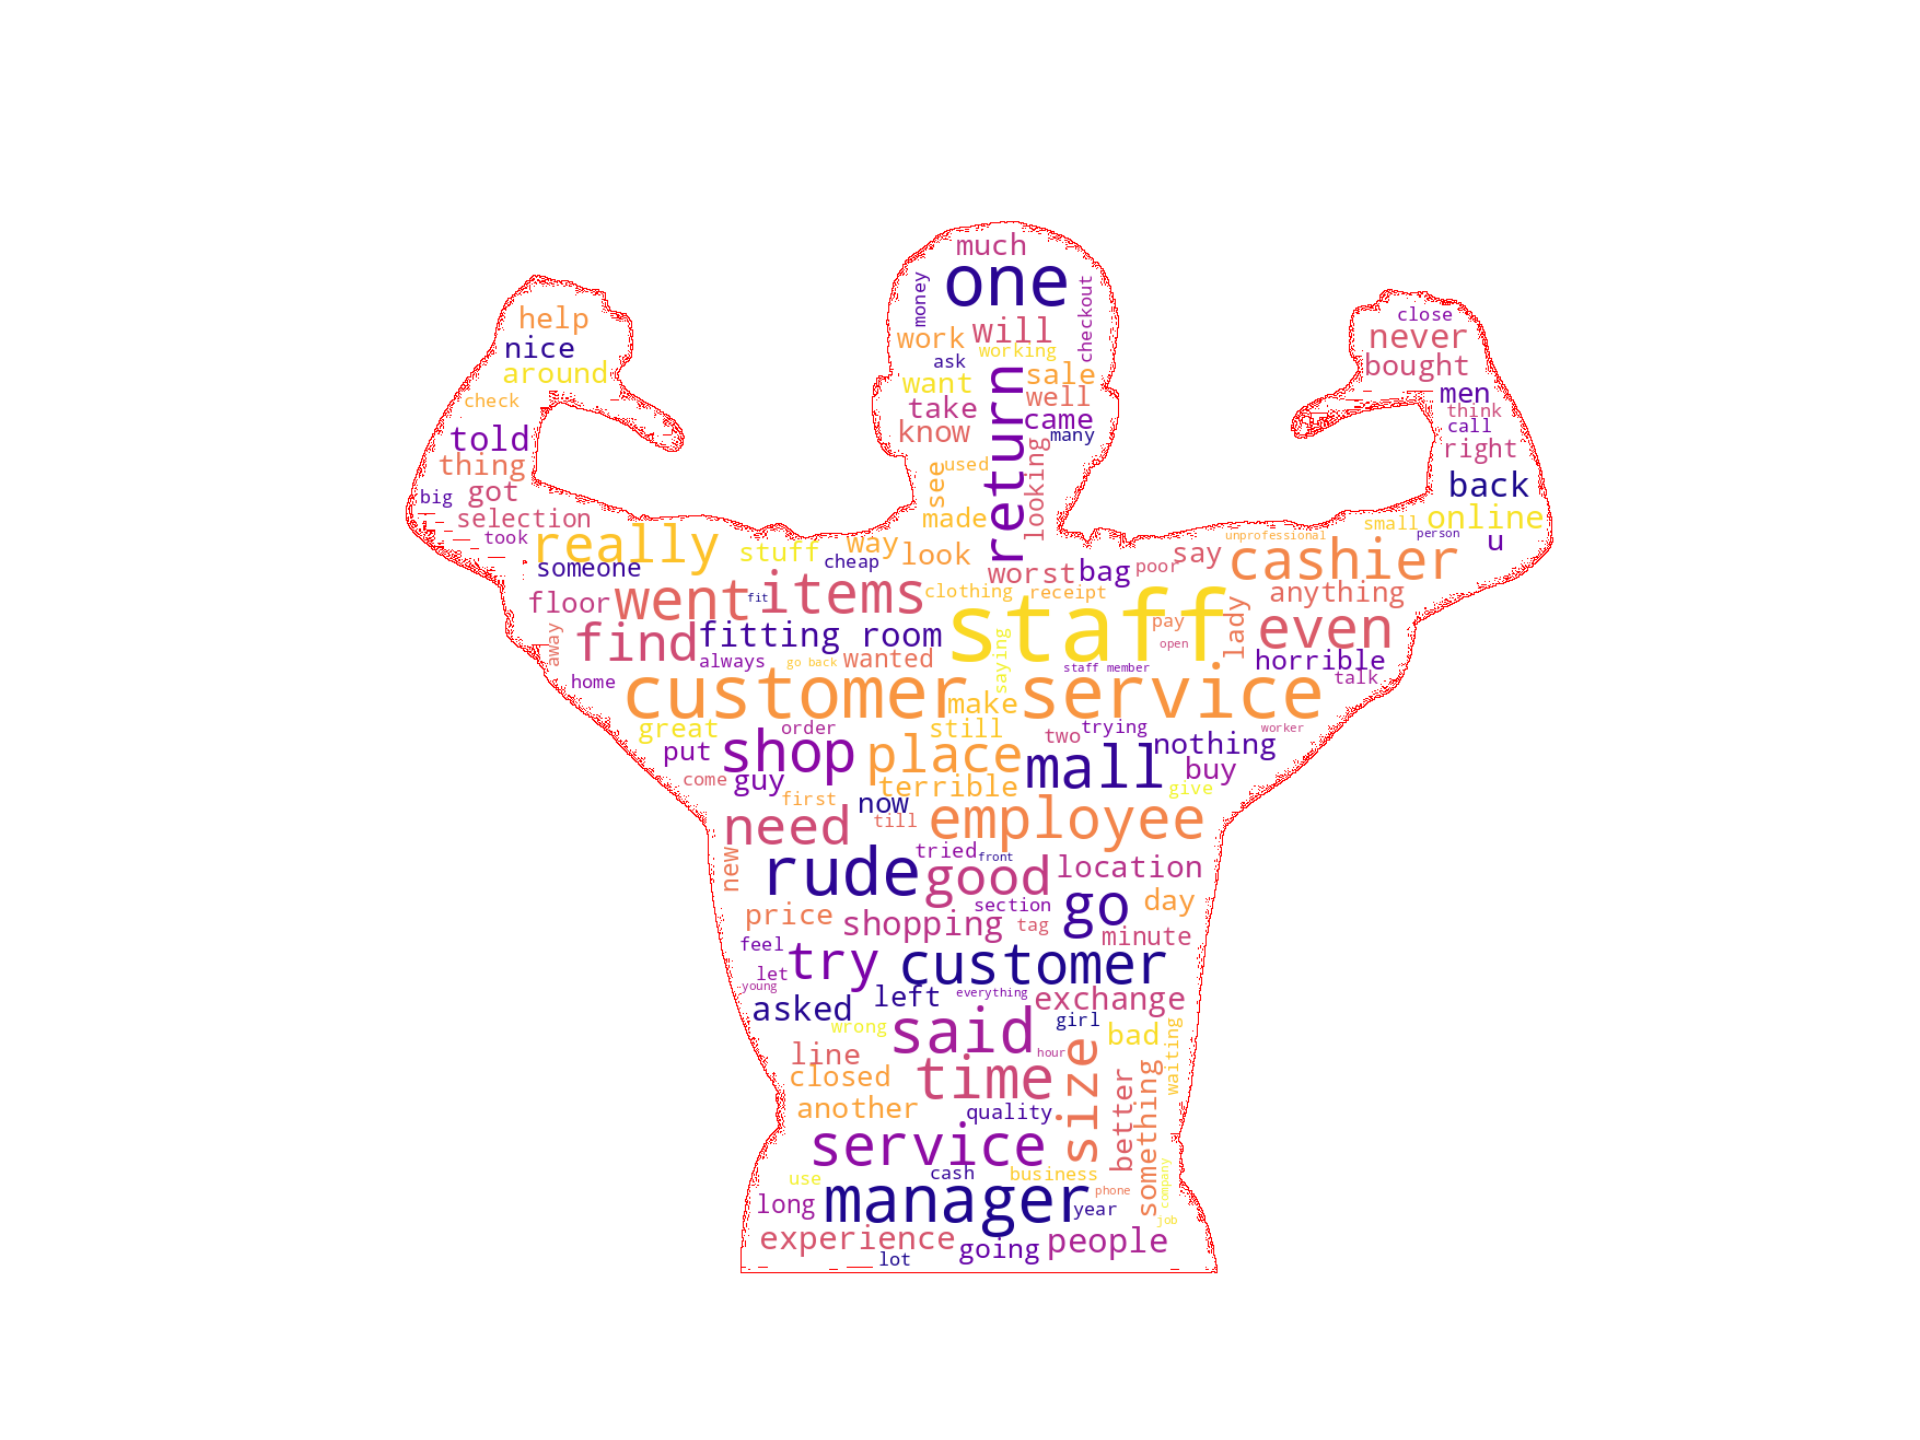
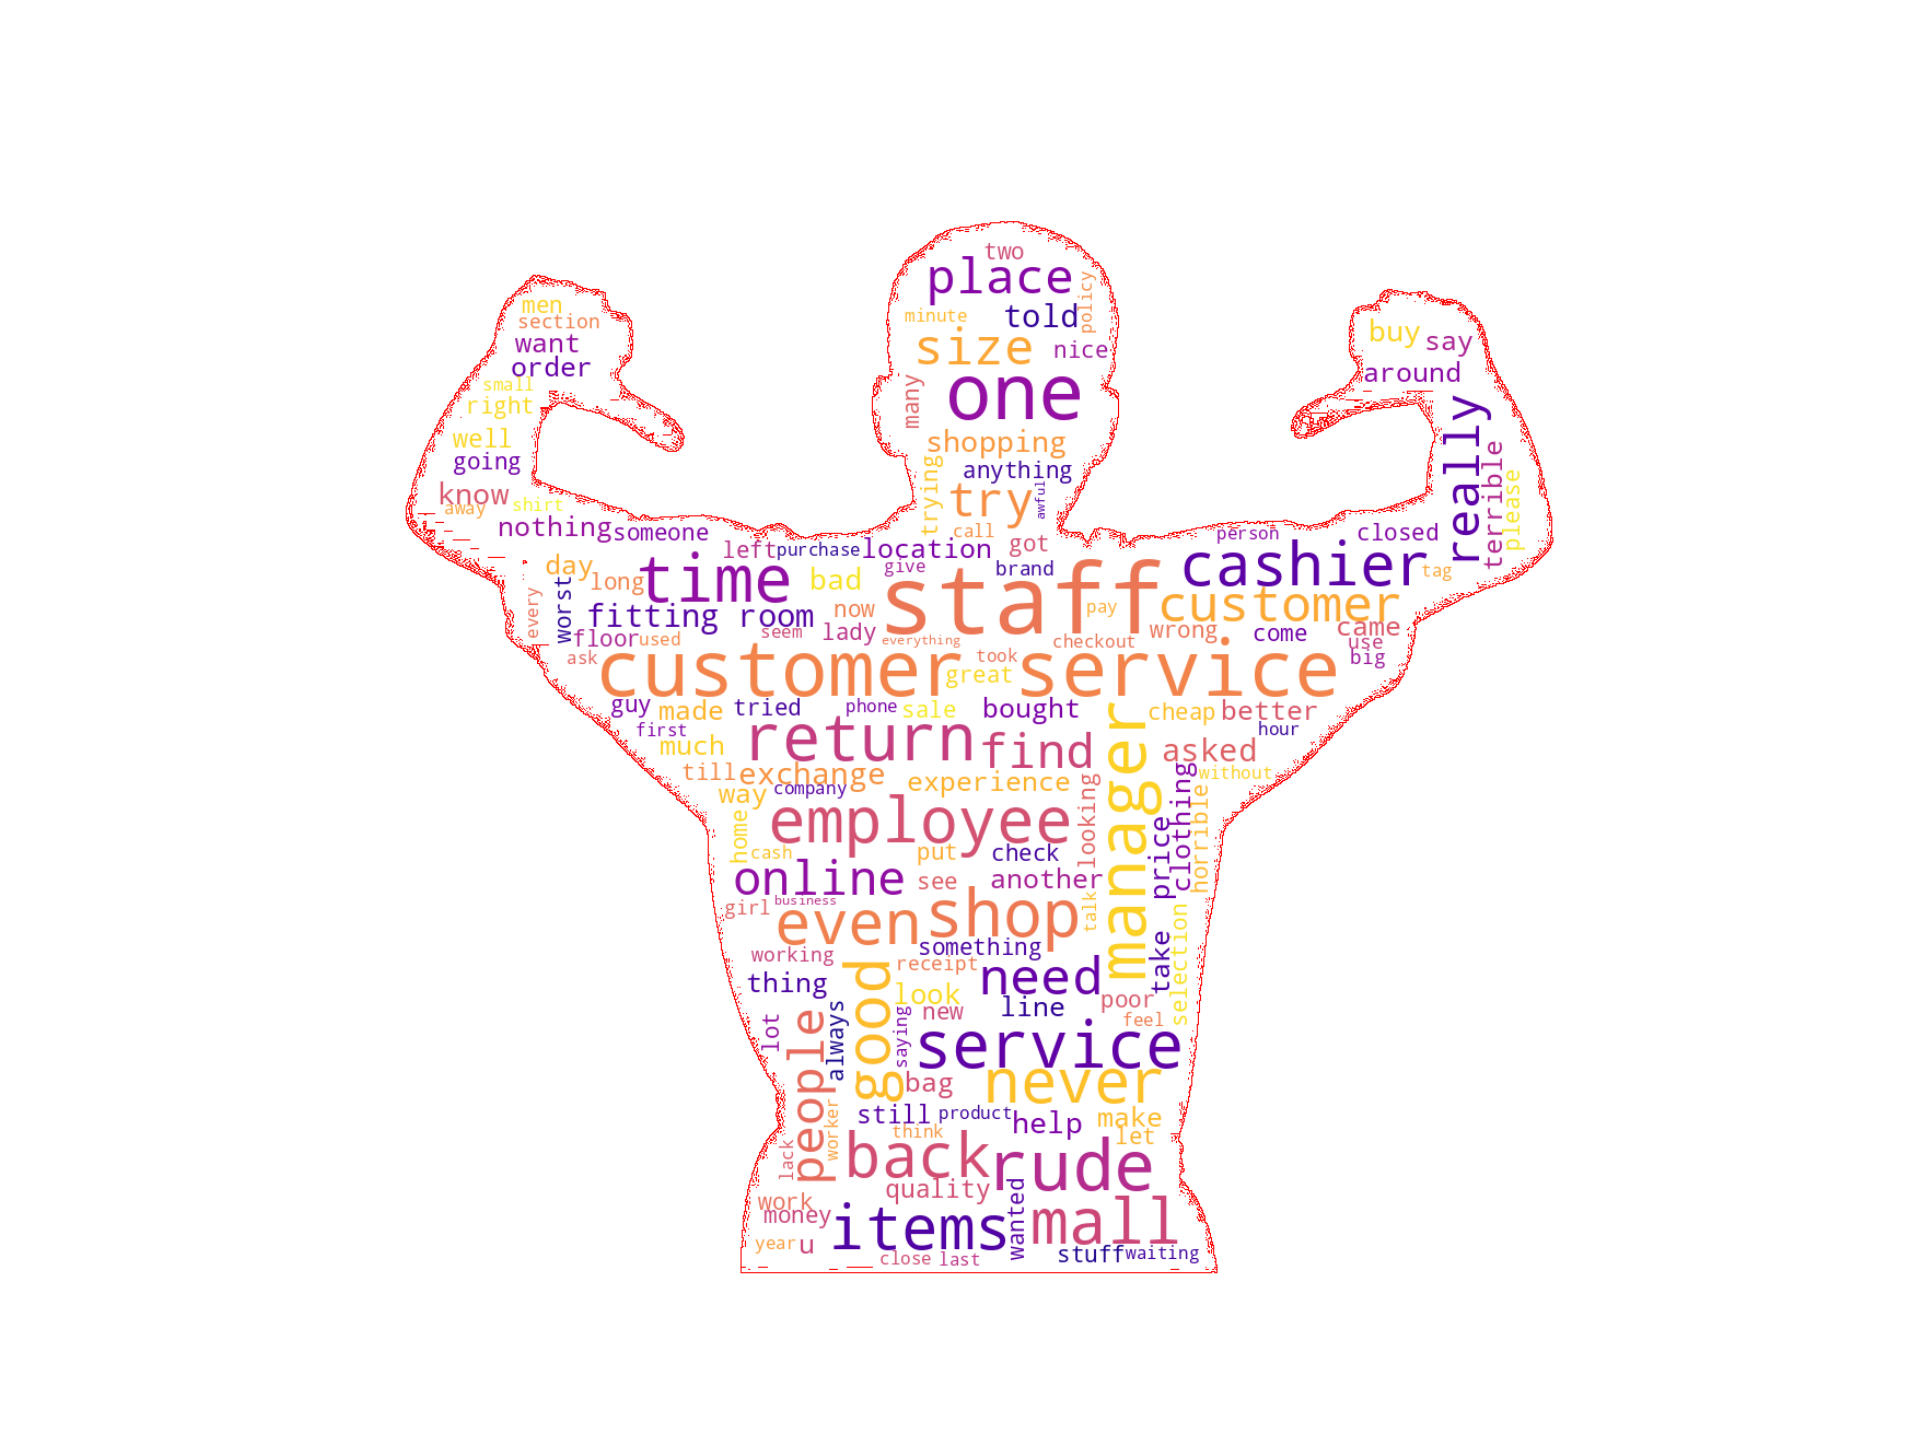
fixed word cloud

Changed region(s): [[0.2188, 0.1562, 0.8125, 0.875]]

diff --git a/word_cloud/word_cloud.py b/word_cloud/word_cloud.py
@@ -5,6 +5,7 @@ import matplotlib.pyplot as plt
 import matplotlib as mpl
 from wordcloud import WordCloud, STOPWORDS, ImageColorGenerator
 from PIL import Image
+import matplotlib
 
 from textblob import TextBlob
 
@@ -22,9 +23,8 @@ def main():
     df1_negative_text = df1[df1['class']==0]['review'].to_list()
 
     df2 = pd.read_csv(file_predictions, sep="|")
-    df2_positive_text = df2[df2['label']==1]['text'].to_list()
-    df2_negative_text = df2[df2['label']==0]['text'].to_list()
-
+    df2_positive_text = df2[df2['label']=='LABEL_1']['text'].to_list()
+    df2_negative_text = df2[df2['label']=='LABEL_0']['text'].to_list()
 
     df_positive_text = [ str(elemento) for elemento in 
                         df1_positive_text + df2_positive_text]
@@ -41,7 +41,8 @@ def main():
     # ---------------------- WORDCLOUD ----------------------
 
     my_stopwords = set(STOPWORDS)
-    my_stopwords.update(['store', 'stores', 'h', 'm', 'item', 'clothe', 'clothes', 'alway'])
+    my_stopwords.update(['store', 'stores', 'h', 'm', 'item', 'clothe', 
+                         'clothes', 'alway', 'said', 'go', 'will', 'went'])
 
     mask_positive=np.array(Image.open('thumb_up.jpg'))
     mask_positive=np.where(mask_positive > 3, 255, mask_positive)
@@ -52,7 +53,7 @@ def main():
 
             mask=mask_positive,
             background_color = "white",
-            colormap= 'viridis',
+            colormap= matplotlib.colormaps['viridis'].reversed(),
             contour_color='green', contour_width=0.25,
             width=mask_positive.shape[1], height=mask_positive.shape[0]                            
             ).generate(positive_text)
@@ -74,7 +75,7 @@ def main():
 
             mask=mask_negative,
             background_color = "white",
-            colormap='plasma', # 'gist_heat',
+            colormap=matplotlib.colormaps['plasma'].reversed(), # 'gist_heat',
             contour_color='red', contour_width=0.25,
             width=mask_negative.shape[1], height=mask_negative.shape[0]                            
             ).generate(negative_text)
